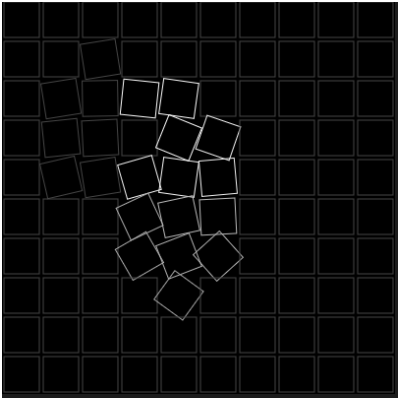
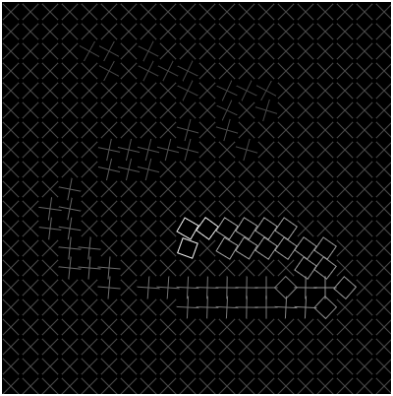
v002

Changed region(s): [[0.0, 0.0, 1.0, 1.0]]

diff --git a/10-rotatingBlocks/block.js b/10-rotatingBlocks/block.js
@@ -3,7 +3,7 @@ class Block {
     this.x = x;
     this.y = y;
     this.angle = 0;
-    this.c = 255;
+    this.c = 70;
   }
 
   display() {
@@ -13,7 +13,13 @@ class Block {
     push();
     translate(this.x, this.y);
     rotate(this.angle);
-    rect(0, 0, size - offset, size - offset);
+    
+    if(this.angle> 0 && this.angle<45){
+      this.drawRect();
+     }else{
+       this.drawX();
+       
+     }
     pop();
   }
 
@@ -28,13 +34,30 @@ class Block {
 
     if (this.angle > 0 && this.angle < 90) {
       this.angle += 1;
-      if (this.c > 70) {
-        this.c -= 3;
-      }
-      
+      if (this.c > 70) this.c -= 3;
     } else {
       this.angle = 0;
       this.c = 70;
     }
+  }
+
+  drawRect() {
+    rect(0, 0, size - offset, size - offset);
+  }
+
+  drawX() {
+    let margin = -size / 2;
+    line(
+      margin + offset / 2,
+      margin + offset / 2,
+      margin + size - offset / 2,
+      margin + size - offset / 2
+    );
+    line(
+      margin + size - offset / 2,
+      margin + offset / 2,
+      margin + offset / 2,
+      margin + size - offset / 2
+    );
   }
 }

diff --git a/10-rotatingBlocks/sketch.js b/10-rotatingBlocks/sketch.js
@@ -1,8 +1,8 @@
-let distMouse = 50;
-let size = 40;
+let distMouse = 20;
+let size = 20;
 let offset = 4;
 let cols, rows;
-let blocks=[];
+let blocks = [];
 
 function setup() {
   createCanvas(400, 400);
@@ -14,7 +14,7 @@ function setup() {
   for (let i = 0; i < cols; i++) {
     blocks[i] = [];
     for (let j = 0; j < rows; j++) {
-      blocks[i][j] = new Block(size / 2 + i * size, size/ 2 + j * size);
+      blocks[i][j] = new Block(size / 2 + i * size, size / 2 + j * size);
     }
   }
 }
